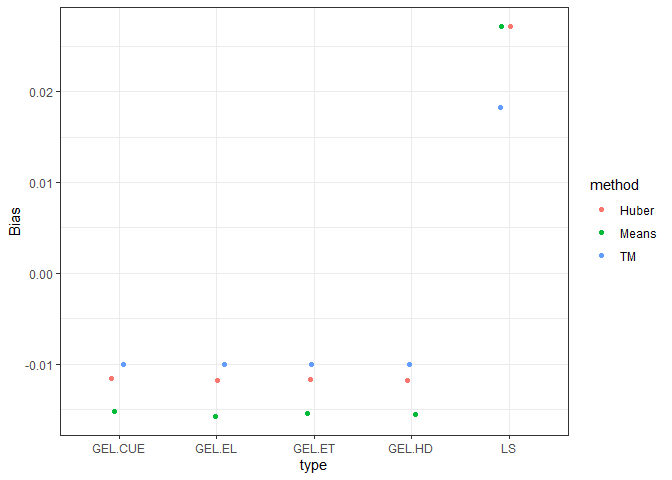
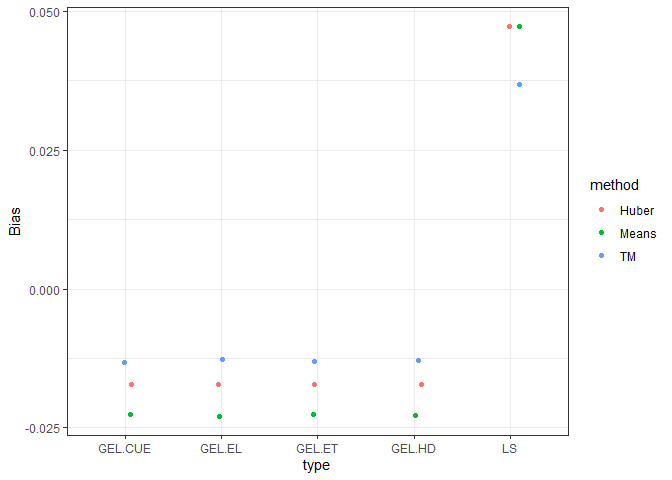
Update .md file based on B=10 simulations

diff --git a/RobCovGEL.md b/RobCovGEL.md
@@ -340,7 +340,7 @@ for demonstration purpose.
 ``` r
 ### Set sample and repetition size
 set.seed(12345)
-B <- 20
+B <- 10
 n <- 200
 ### Set covariance structure for y and x
 rho <- 0.5
@@ -492,29 +492,29 @@ simrez1
 
     ## $bias
     ##                LS       GEL.EL      GEL.CUE       GEL.ET       GEL.HD
-    ## mu1   -0.01418835  0.017947675  0.018296608  0.018116070  0.018033060
-    ## delta  0.01826007 -0.010034051 -0.010000137 -0.010020209 -0.010024005
-    ## mux    0.24488383  0.009815549  0.009579246  0.009637657  0.009708176
+    ## mu1   -0.01825514  0.035888630  0.036837672  0.036312254  0.036089189
+    ## delta  0.03678273 -0.012709035 -0.013261174 -0.012978966 -0.012837065
+    ## mux    0.24040906  0.008796776  0.008800582  0.008706285  0.008728003
     ## 
     ## $Variance
-    ##                LS      GEL.EL     GEL.CUE      GEL.ET     GEL.HD
-    ## mu1   0.005774926 0.014659346 0.014632461 0.014628059 0.01463876
-    ## delta 0.014636747 0.006577931 0.006673444 0.006619212 0.00659713
-    ## mux   0.004023043 0.005081316 0.004929361 0.004995443 0.00503388
+    ##                LS      GEL.EL     GEL.CUE      GEL.ET      GEL.HD
+    ## mu1   0.007316432 0.011146770 0.010996105 0.011069672 0.011107768
+    ## delta 0.010998669 0.007657012 0.007705182 0.007675113 0.007664562
+    ## mux   0.004038657 0.004474672 0.004370363 0.004416831 0.004443560
     ## 
     ## $RMSE
     ##               LS     GEL.EL    GEL.CUE     GEL.ET     GEL.HD
-    ## mu1   0.07541545 0.11936707 0.11931305 0.11926797 0.11929800
-    ## delta 0.11932451 0.07968511 0.08024820 0.07992907 0.07979821
-    ## mux   0.25256679 0.07016833 0.06909888 0.06955972 0.06983147
+    ## mu1   0.08317475 0.10639589 0.10608255 0.10621339 0.10629873
+    ## delta 0.10607437 0.08398113 0.08432391 0.08411929 0.08404104
+    ## mux   0.24785340 0.06406706 0.06333070 0.06364706 0.06383872
     ## 
     ## $coverage
-    ##         LS GEL.EL GEL.CUE GEL.ET GEL.HD
-    ## delta 0.85      1       1      1      1
+    ##        LS GEL.EL GEL.CUE GEL.ET GEL.HD
+    ## delta 0.9      1       1      1      1
     ## 
     ## $ci.length
-    ##              LS  GEL.EL   GEL.CUE    GEL.ET    GEL.HD
-    ## delta 0.3868456 0.38651 0.4067992 0.3877195 0.3850405
+    ##              LS    GEL.EL   GEL.CUE    GEL.ET   GEL.HD
+    ## delta 0.3820422 0.3822894 0.4035143 0.3832253 0.380492
     ## 
     ## $num.nas
     ##       LS GEL.EL GEL.CUE GEL.ET GEL.HD
